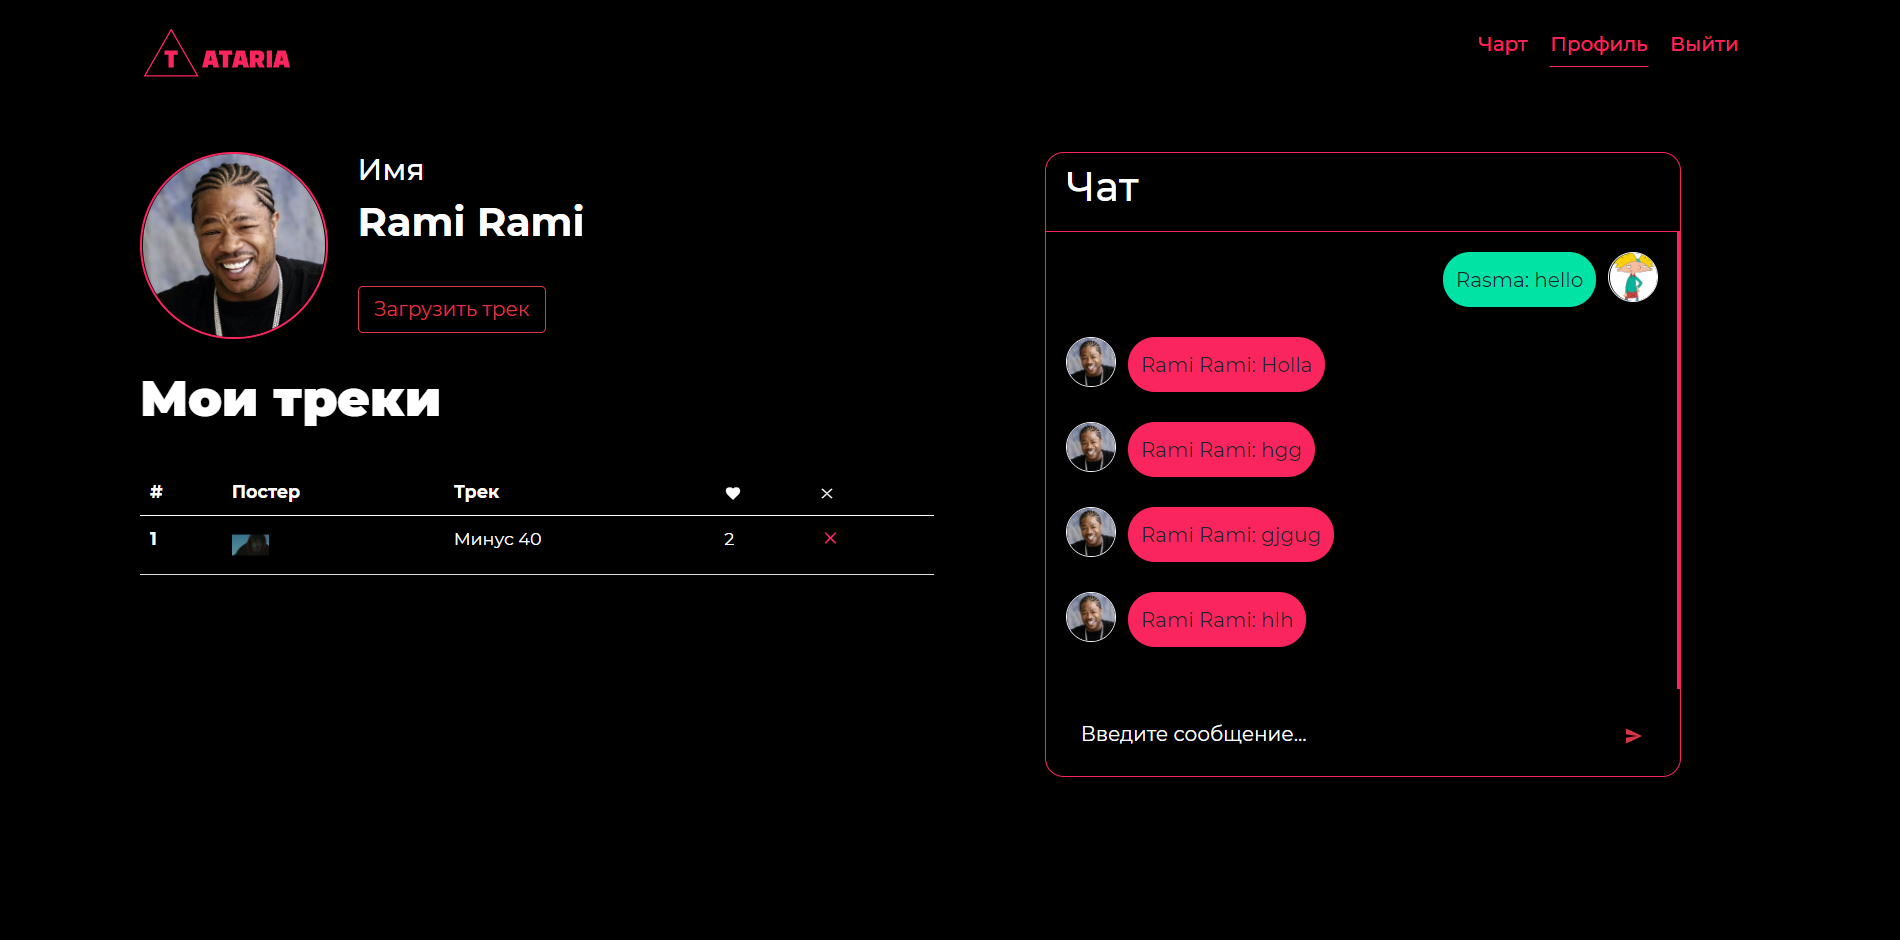
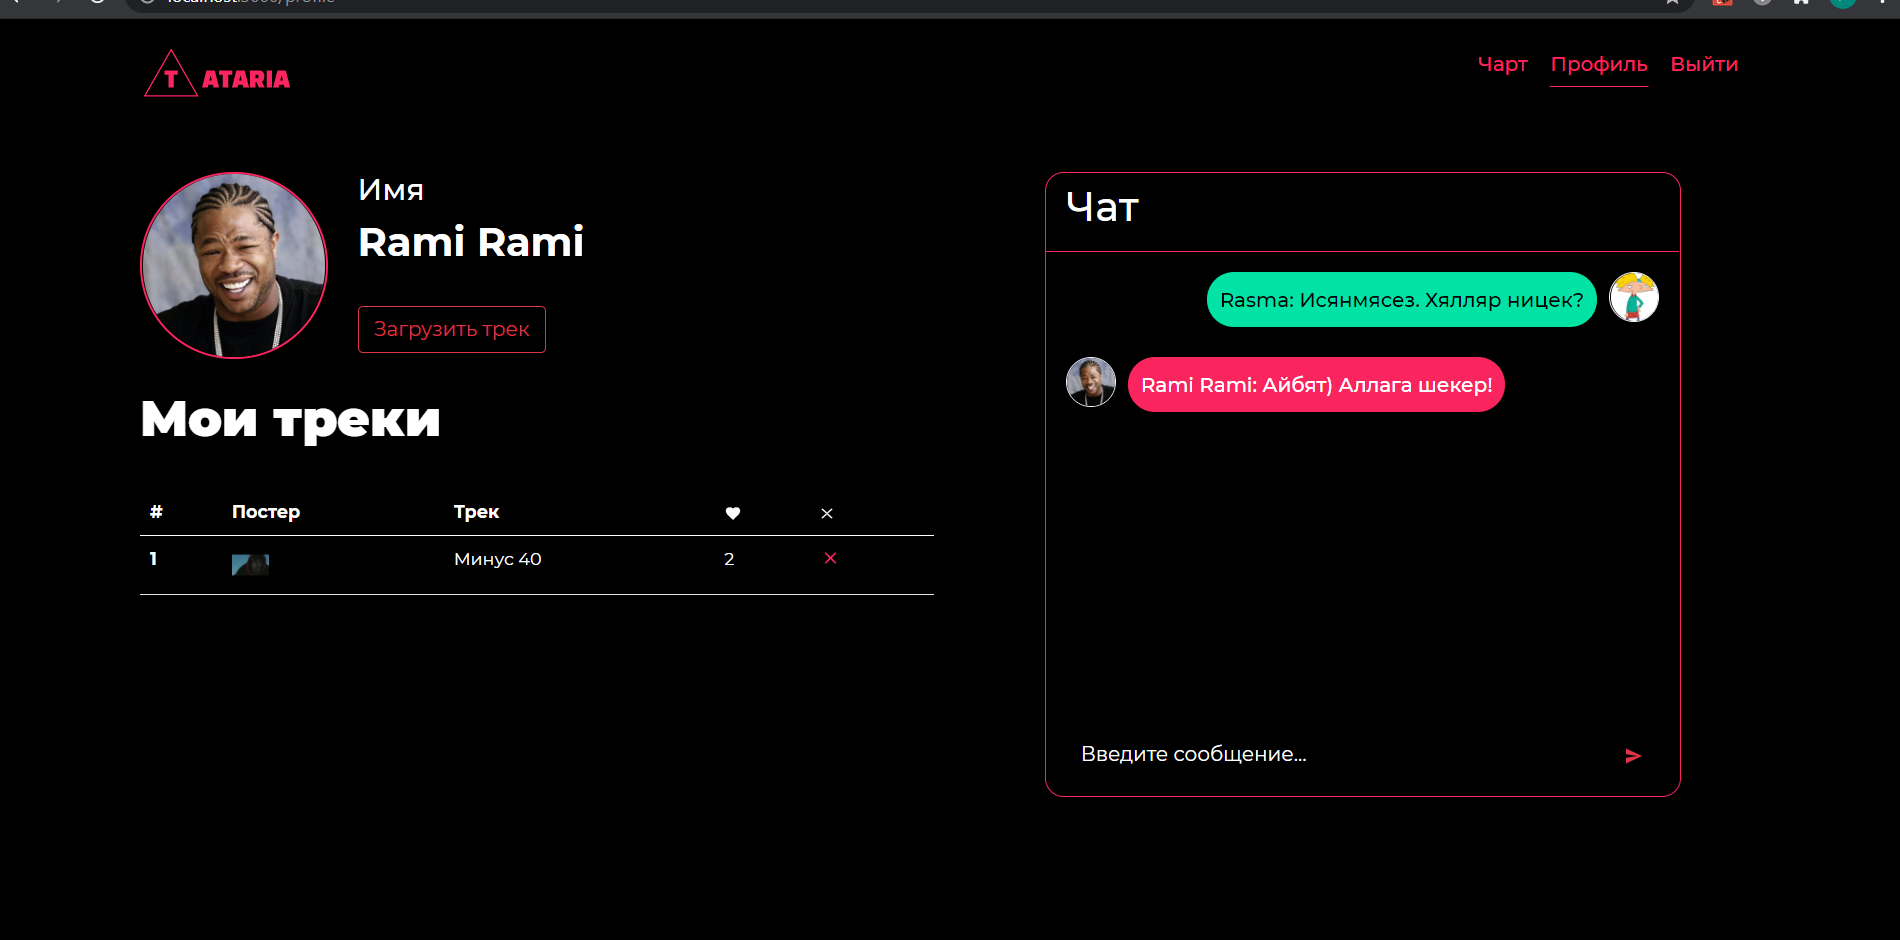
Изменил шрифт у сообщений

diff --git a/client/src/styles/style.scss b/client/src/styles/style.scss
@@ -322,6 +322,8 @@ body {
         margin-left: 10px;
         border-radius: 25px;
         background-color: $rc;
+        color: $wc;
+        font-weight: 500;
         padding: 10px;
         position: relative;
       }
@@ -331,6 +333,8 @@ body {
         margin-right: 10px;
         border-radius: 25px;
         background-color: $grc;
+        color: $bc;
+        font-weight: 500;
         padding: 10px;
         position: relative;
       }

diff --git a/client/src/styles/style.css b/client/src/styles/style.css
@@ -389,6 +389,8 @@ body .profile__chat .msg_cotainer {
   margin-left: 10px;
   border-radius: 25px;
   background-color: #fa255e;
+  color: #fff;
+  font-weight: 500;
   padding: 10px;
   position: relative;
 }
@@ -399,6 +401,8 @@ body .profile__chat .msg_cotainer_send {
   margin-right: 10px;
   border-radius: 25px;
   background-color: #01e3a5;
+  color: #000;
+  font-weight: 500;
   padding: 10px;
   position: relative;
 }
